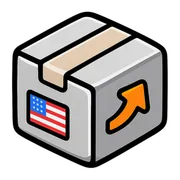
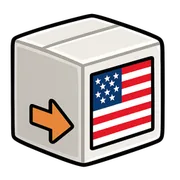
Trump for every US order; add US cases (Alabama, US battery plant, RB-Y1); big-flag export tile
Claude-Session: https://claude.ai/code/session_019QwctBLnb4UTXMJBnbargq

diff --git a/index.html b/index.html
@@ -754,8 +754,9 @@ const ORDERS = [
   { id: 'port',     want: 'agv',   n: 2, mood: 'calm', icon: '⚓', who: '부산항',      task: '컨테이너 이송',     sec: '⑮ 항만',        fact: '국내 첫 완전 자동화 부두에서 AGV가 시스템 지시대로 컨테이너를 옮겨요.' },
   { id: 'kai',      want: 'agv',   n: 1, mood: 'calm', icon: '🛩', who: 'KAI',         task: '공정 사이 자재 이송', sec: '⑨ 항공기 제조', fact: 'AGV로 자재를 옮기고 로봇으로 T-50 날개를 뚫어, 8시간 걸리던 작업을 40분으로 줄였어요.' },
   { id: 'stl',      want: 'amr',   n: 2, mood: 'mid',  icon: '💄', who: '에스티엘',    task: '오더피킹',           sec: '② AMR',         fact: '트위니가 오더피킹 AMR 12대를 먼저 넣어 검증한 뒤 본계약을 맺었어요.' },
-  { id: 'transys',  want: 'amr',   n: 1, mood: 'mid',  icon: '🏭', who: '현대트랜시스', task: '바닥 공사 없이 운반', sec: '② AMR',        fact: '바닥 공사 없이 기존 공장에 바로 넣을 수 있는 300kg급 AMR이에요.' },
+  { id: 'transys',  want: 'amr',   n: 1, us: true, mood: 'mid',  icon: '🏭', who: '현대트랜시스', task: '바닥 공사 없이 운반', sec: '② AMR',        fact: '티라로보틱스가 현대트랜시스 미국 앨라배마 공장에 바닥 공사 없이 넣은 300kg급 AMR이에요.' },
   { id: 'ford',     want: 'amr',   n: 1, us: true, mood: 'hot',  icon: '🔌', who: '포드',        task: '공장 자재 운반',     sec: '② AMR',         fact: '티로보틱스가 미국 포드 ESS 공장에 AMR을 공급했어요.' },
+  { id: 'usbat',    want: 'amr',   n: 1, us: true, mood: 'mid',  icon: '🔋', who: '배터리사 미국 공장', task: '부품 운반',     sec: '⑧ 배터리 공장', fact: '미국에 공장을 둔 국내 배터리사는 부품 운반 AMR을 들일 때 FCC 장비 인증 규정을 살펴야 해요.' },
   { id: 'ecopro',   want: 'amr',   n: 1, mood: 'mid',  icon: '🧪', who: '에코프로',    task: '설비 순찰 점검',     sec: '⑧ 배터리 공장', fact: '이차전지 소재 공장에서 AMR로 설비를 점검하고 고장을 미리 잡아요.' },
   { id: 'mipo',     want: 'cobot', n: 2, mood: 'mid',  icon: '🚢', who: '',            task: '선체 용접',          sec: '④ 조선',        label: '용접 협동로봇', fact: '한 조선소는 협동로봇 27대를 추가해 누적 55대가 됐어요. 숙련 용접공을 구하지 못해 "일을 못 받는다"는 현장이에요.' },
   { id: 'ship2',    want: 'cobot', n: 1, mood: 'hot',  icon: '🚢', who: '',            task: '고열·분진 속 용접',   sec: '④ 조선',        label: '용접 협동로봇', fact: '조선소는 고열·먼지·용접 스패터 속에서 용접선을 따라 움직여야 해요. 작업자가 말로 지시하면 로봇이 토치 각도와 속도를 정하는 AI 과제도 진행 중이에요.' },
@@ -767,6 +768,7 @@ const ORDERS = [
   { id: 'gwangjin', want: 'cobot', n: 1, mood: 'hot',  icon: '⚙', who: '광진',        task: '양산 라인 피킹',     sec: '③ 제조 SI',     label: '피킹 협동로봇',     fact: '13억원을 들여 양산 라인에 협동로봇을 넣었어요.' },
   { id: 'polytech', want: 'cobot', n: 1, mood: 'calm', icon: '🎓', who: '폴리텍',      task: '학생 실습',          sec: '① 교육용 로봇', label: '실습용 협동로봇', fact: '두산로보틱스가 실습용 협동로봇 4대를 기증했어요.' },
   { id: 'lg',       want: 'mm',    n: 1, mood: 'mid',  icon: '🔋', who: 'LG엔솔',      task: '다니며 불량 셀 빼기', sec: '⑧ 배터리 공장', fact: 'AMR 위에 협동로봇 팔을 얹은 결합형이 라인을 돌며 불량 셀을 빼고 부품을 공급해요.' },
+  { id: 'rby1',     want: 'mm',    n: 1, us: true, mood: 'mid',  icon: '🇺🇸', who: '북미 고객',   task: '양팔 이동 로봇 공급', sec: '② AMR',        fact: 'FCC가 외국에서 생산된 첨단 로봇의 인증을 막으면서 레인보우로보틱스 RB-Y1의 미국 출하가 멈췄어요.' },
   { id: 'posco',    want: 'quad',  n: 1, label: '고로 점검 4족로봇', mood: 'mid',  icon: '🌋', who: '포스코',      task: '고로 가스 누설 점검', sec: '⑦ 철강',       fact: '스팟이 고로를 순찰하며 누수·발열 징후를 감지하고, 하루 12번 배관 누설을 점검해요.' },
   { id: 'police',   want: 'quad',  n: 1, label: '폭발물 정찰 4족로봇', mood: 'hot',  icon: '🚓', who: '경찰청',      task: '폭발물 현장 정찰',   sec: '㉖ 소방·경찰',   fact: '사족보행 로봇이 폭발물 현장에 먼저 들어가 360도·열화상 영상을 보내요.' },
   { id: 'army',     want: 'quad',  n: 1, korea: true, label: '군용 4족로봇', mood: 'calm', icon: '🎖', who: '방사청',      task: '산악 정찰',          sec: '㉗ 국방',        fact: '대테러 다족보행로봇을 특전사·전방사단에 시범 배치했어요.' },
@@ -785,7 +787,7 @@ const ORDERS = [
 ];
 // 업종: 주문서·손님 자리에 회사 이름보다 크게 보여 줌
 const IND = {
-  port: '항만', kai: '항공기 제조', stl: '물류센터', transys: '자동차 부품 공장', ford: '배터리(ESS) 공장', ecopro: '배터리 소재 공장',
+  port: '항만', kai: '항공기 제조', stl: '물류센터', transys: '자동차 부품 공장', ford: '배터리(ESS) 공장', usbat: '배터리 공장', rby1: '제조 공장', ecopro: '배터리 소재 공장',
   mipo: '조선소', ship2: '조선소', busanEdu: '학교 급식실', seoulEdu: '학교 급식실', gyeonggiEdu: '학교 급식실', kyochon: '치킨집', bhc: '치킨집', gwangjin: '제조 공장', polytech: '직업 교육', lg: '배터리 공장',
   skynet: '미래에서 온 주문', autobot: '사이버트론', efsf: '우주세기 0079', nerv: '제3신동경시', posco: '제철소', posco2: '제철소', fire2: '소방', police: '경찰', army: '방위산업', fire: '소방', hyundai: '자동차 공장', bmw: '자동차 공장', cj: '물류센터', catl: '배터리 공장',
 };
@@ -1828,9 +1830,9 @@ const FACE_KEY = { '😊': 'smile', '😐': 'neutral', '😠': 'frown', '😡': 
 const CHAR_COOK = new Set(['학교 급식실', '치킨집']);
 const CHAR_SUIT = new Set(['물류센터', '경찰', '방위산업', '소방', '직업 교육', '미래에서 온 주문', '우주세기 0079', '제3신동경시']);
 const charOf = o => !o ? 'suit' : CHAR_COOK.has(o.ind) ? 'cook' : CHAR_SUIT.has(o.ind) ? 'suit' : 'worker';
-// 손님마다 한 번 정함: 미국 수출(해외수출 칸) 주문은 트럼프, 양복 손님은 남녀 부장님이 무작위
+// 손님마다 한 번 정함: 미국 주문(해외수출 칸이 아직 없는 초반 단계도)은 트럼프, 양복 손님은 남녀 부장님이 무작위
 function pickChar(order, needs) {
-  if (needs.includes('made')) return 'trump';
+  if (order && order.us) return 'trump';
   const ch = charOf(order);
   return ch === 'suit' && Math.random() < 0.5 ? 'suitf' : ch;
 }
@@ -1840,7 +1842,7 @@ const faceHTML = (e, who = 'suit') => FACE_ART[who][e] || FACE_ART.suit[e] || e;
 // 같은 그림이 여러 개 있어도 박자가 겹치지 않게 시작점을 흩뜨림
 // 그림을 다시 그려도 폰에 남은 옛 그림이 보이지 않게 주소에 버전을 붙임
 // 파일마다 내용이 바뀔 때만 새로 받도록 파일 해시를 붙임 (빌드할 때 채움)
-const ART_HASH = {"tile-gundam-a.png": "41a00219", "ind-school-a.png": "1b0fc977", "robot-cobot-cook-b.png": "3f739fa6", "tile-tool-a.png": "48c7dc89", "tile-made-a.png": "43e550a9", "ind-training-b.png": "0efc1d0b", "robot-qarm-a.png": "901f7afc", "tile-legs-b.png": "c0299b41", "tile-union-b.png": "b3a03a42", "face-cook-frown.png": "e01a4907", "face-cook-neutral.png": "71441525", "ind-battery-b.png": "6e2bd18d", "ind-fire-a.png": "a71484d3", "face-trump-neutral.png": "5aecac90", "tile-legs-a.png": "2faadad6", "face-worker-angry.png": "eb6b88ed", "ind-steel-a.png": "0f070238", "face-suitf-delight.png": "d729900f", "ind-steel-b.png": "e122612f", "ind-defense-b.png": "5aa959f1", "face-cook-angry.png": "50c65318", "ind-port-b.png": "6f5dc395", "tile-tf-a.png": "d2bc0939", "ind-factory-a.png": "909659fd", "tile-term-b.png": "fa8e5b3f", "face-neutral.png": "a9a959b5", "tile-wheel-a.png": "9e98ebac", "face-cook-smile.png": "be9219e0", "tile-korea-b.png": "1fcc2bd8", "face-trump-tear.png": "21d22245", "tile-auto-b.png": "bb58686e", "ind-material-b.png": "a8f27197", "tile-korea-a.png": "f7ec52b4", "tile-union-a.png": "d48507d4", "ind-auto-a.png": "9a8abf4f", "face-frown.png": "26865767", "robot-centaur-a.png": "a9e1e03b", "tile-auto-a.png": "e7100d25", "robot-cobot-cook-a.png": "2acb022c", "face-worker-tear.png": "940dcfc3", "ind-autoparts-b.png": "a5dbd76a", "face-suitf-angry.png": "5b24ceb5", "face-suitf-tear.png": "d0923069", "robot-centaur-b.png": "848f1932", "robot-mm-a.png": "e5da97cf", "ind-defense-a.png": "23a0651c", "robot-quad-a.png": "1e1384cf", "ind-autoparts-a.png": "26dcf7ce", "tile-eva-b.png": "b64d5546", "face-cook-tear.png": "d529800c", "tile-gundam-b.png": "69722c17", "face-trump-delight.png": "e41c1f7d", "face-angry.png": "8542c3c5", "tile-floor-b.png": "7bfb4d09", "face-suitf-smile.png": "2bfa949d", "ind-material-a.png": "2c67685e", "tile-term-a.png": "f86a988f", "tile-eva-a.png": "48055f29", "tile-hum-a.png": "cdc85433", "ind-port-a.png": "0e5340b9", "ind-police-a.png": "717025fa", "wheel-tilt-ref.png": "4a1e31a2", "robot-cobot-a.png": "bb066d5e", "face-trump-angry.png": "6fc0cf6d", "tile-wheel-b.png": "df5d2104", "face-worker-neutral.png": "f4f1ff96", "robot-amr-a.png": "21455470", "face-delight.png": "4b63238d", "face-trump-frown.png": "4102f723", "robot-mm-b.png": "41cc89c7", "ind-fire-b.png": "c530534e", "ind-police-b.png": "750b1169", "ind-ess-b.png": "c7fac005", "ind-training-a.png": "a9fe00e5", "tile-tf-b.png": "23f3efda", "ind-aircraft-a.png": "53a6b218", "ind-school-b.png": "a14af652", "tile-arm-b.png": "6cb9dab3", "face-worker-delight.png": "56fdb189", "face-worker-smile.png": "7eaefd7c", "robot-quad-b.png": "9b27fe7b", "ind-chicken-a.png": "bd4bc4e3", "face-cook-delight.png": "5ceb20b0", "ind-battery-a.png": "2ead7359", "robot-agv-b.png": "397f8942", "face-tear.png": "7cacead6", "face-suitf-neutral.png": "b29259fe", "ind-auto-b.png": "f90715bb", "ind-shipyard-a.png": "7c43481e", "tile-tool-b.png": "c90763b3", "ind-factory-b.png": "b9dfaab4", "ind-chicken-b.png": "b4930a6b", "ind-shipyard-b.png": "098fdbae", "robot-qarm-b.png": "abd9a737", "tile-arm-a.png": "cd420a51", "tile-made-b.png": "5c6a705c", "tile-floor-a.png": "14074a30", "robot-cobot-weld-a.png": "da53987b", "robot-agv-a.png": "ee67b65c", "ind-logistics-b.png": "9c5aeeca", "face-smile.png": "786eeb95", "face-worker-frown.png": "0f8d8086", "robot-cobot-weld-b.png": "a9e69108", "robot-amr-b.png": "e23a5198", "tile-hum-b.png": "01ca7c8b", "ind-ess-a.png": "83fff111", "face-suitf-frown.png": "1236f440", "ind-aircraft-b.png": "6afa5f2a", "face-trump-smile.png": "03674df8", "robot-cobot-b.png": "7ea58bc1", "ind-logistics-a.png": "b1b04f38"};
+const ART_HASH = {"tile-gundam-a.png": "41a00219", "ind-school-a.png": "1b0fc977", "robot-cobot-cook-b.png": "3f739fa6", "tile-tool-a.png": "48c7dc89", "tile-made-a.png": "d557ba97", "ind-training-b.png": "0efc1d0b", "robot-qarm-a.png": "901f7afc", "tile-legs-b.png": "c0299b41", "tile-union-b.png": "b3a03a42", "face-cook-frown.png": "e01a4907", "face-cook-neutral.png": "71441525", "ind-battery-b.png": "6e2bd18d", "ind-fire-a.png": "a71484d3", "face-trump-neutral.png": "5aecac90", "tile-legs-a.png": "2faadad6", "face-worker-angry.png": "eb6b88ed", "ind-steel-a.png": "0f070238", "face-suitf-delight.png": "d729900f", "ind-steel-b.png": "e122612f", "ind-defense-b.png": "5aa959f1", "face-cook-angry.png": "50c65318", "ind-port-b.png": "6f5dc395", "tile-tf-a.png": "d2bc0939", "ind-factory-a.png": "909659fd", "tile-term-b.png": "fa8e5b3f", "face-neutral.png": "a9a959b5", "tile-wheel-a.png": "9e98ebac", "face-cook-smile.png": "be9219e0", "tile-korea-b.png": "1fcc2bd8", "face-trump-tear.png": "21d22245", "tile-auto-b.png": "bb58686e", "ind-material-b.png": "a8f27197", "tile-korea-a.png": "f7ec52b4", "tile-union-a.png": "d48507d4", "ind-auto-a.png": "9a8abf4f", "face-frown.png": "26865767", "robot-centaur-a.png": "a9e1e03b", "tile-auto-a.png": "e7100d25", "robot-cobot-cook-a.png": "2acb022c", "face-worker-tear.png": "940dcfc3", "ind-autoparts-b.png": "a5dbd76a", "face-suitf-angry.png": "5b24ceb5", "face-suitf-tear.png": "d0923069", "robot-centaur-b.png": "848f1932", "robot-mm-a.png": "e5da97cf", "ind-defense-a.png": "23a0651c", "robot-quad-a.png": "1e1384cf", "ind-autoparts-a.png": "26dcf7ce", "tile-eva-b.png": "b64d5546", "face-cook-tear.png": "d529800c", "tile-gundam-b.png": "69722c17", "face-trump-delight.png": "e41c1f7d", "face-angry.png": "8542c3c5", "tile-floor-b.png": "7bfb4d09", "face-suitf-smile.png": "2bfa949d", "ind-material-a.png": "2c67685e", "tile-term-a.png": "f86a988f", "tile-eva-a.png": "48055f29", "tile-hum-a.png": "cdc85433", "ind-port-a.png": "0e5340b9", "ind-police-a.png": "717025fa", "wheel-tilt-ref.png": "4a1e31a2", "robot-cobot-a.png": "bb066d5e", "face-trump-angry.png": "6fc0cf6d", "tile-wheel-b.png": "df5d2104", "face-worker-neutral.png": "f4f1ff96", "robot-amr-a.png": "21455470", "face-delight.png": "4b63238d", "face-trump-frown.png": "4102f723", "robot-mm-b.png": "41cc89c7", "ind-fire-b.png": "c530534e", "ind-police-b.png": "750b1169", "ind-ess-b.png": "c7fac005", "ind-training-a.png": "a9fe00e5", "tile-tf-b.png": "23f3efda", "ind-aircraft-a.png": "53a6b218", "ind-school-b.png": "a14af652", "tile-arm-b.png": "6cb9dab3", "face-worker-delight.png": "56fdb189", "face-worker-smile.png": "7eaefd7c", "robot-quad-b.png": "9b27fe7b", "ind-chicken-a.png": "bd4bc4e3", "face-cook-delight.png": "5ceb20b0", "ind-battery-a.png": "2ead7359", "robot-agv-b.png": "397f8942", "face-tear.png": "7cacead6", "face-suitf-neutral.png": "b29259fe", "ind-auto-b.png": "f90715bb", "ind-shipyard-a.png": "7c43481e", "tile-tool-b.png": "c90763b3", "ind-factory-b.png": "b9dfaab4", "ind-chicken-b.png": "b4930a6b", "ind-shipyard-b.png": "098fdbae", "robot-qarm-b.png": "abd9a737", "tile-arm-a.png": "cd420a51", "tile-made-b.png": "7077aabd", "tile-floor-a.png": "14074a30", "robot-cobot-weld-a.png": "da53987b", "robot-agv-a.png": "ee67b65c", "ind-logistics-b.png": "9c5aeeca", "face-smile.png": "786eeb95", "face-worker-frown.png": "0f8d8086", "robot-cobot-weld-b.png": "a9e69108", "robot-amr-b.png": "e23a5198", "tile-hum-b.png": "01ca7c8b", "ind-ess-a.png": "83fff111", "face-suitf-frown.png": "1236f440", "ind-aircraft-b.png": "6afa5f2a", "face-trump-smile.png": "03674df8", "robot-cobot-b.png": "7ea58bc1", "ind-logistics-a.png": "b1b04f38"};
 // 게임에서는 가벼운 webp(assets/w/)를 씀. 파일 이름은 png와 같고 확장자만 다름
 const av = f => { const n = f.replace('assets/', ''); return `assets/w/${n.replace(/\.png$/, '.webp')}?v=${ART_HASH[n] || '0'}`; };
 // 업종 아이콘(ind-)은 a프레임만, 로봇·부품은 a·b를 번갈아 (팔이 까딱, 다리가 제자리걸음 등)
@@ -2173,7 +2175,7 @@ function banner(text, delay) {
 }
 
 // ───────── 진행 ─────────
-const BUILD_V = '1003-162242';
+const BUILD_V = '1003-162548';
 function loop(t) {
   const dt = Math.min(0.1, (t - (S.last || t)) / 1000);
   S.last = t;
